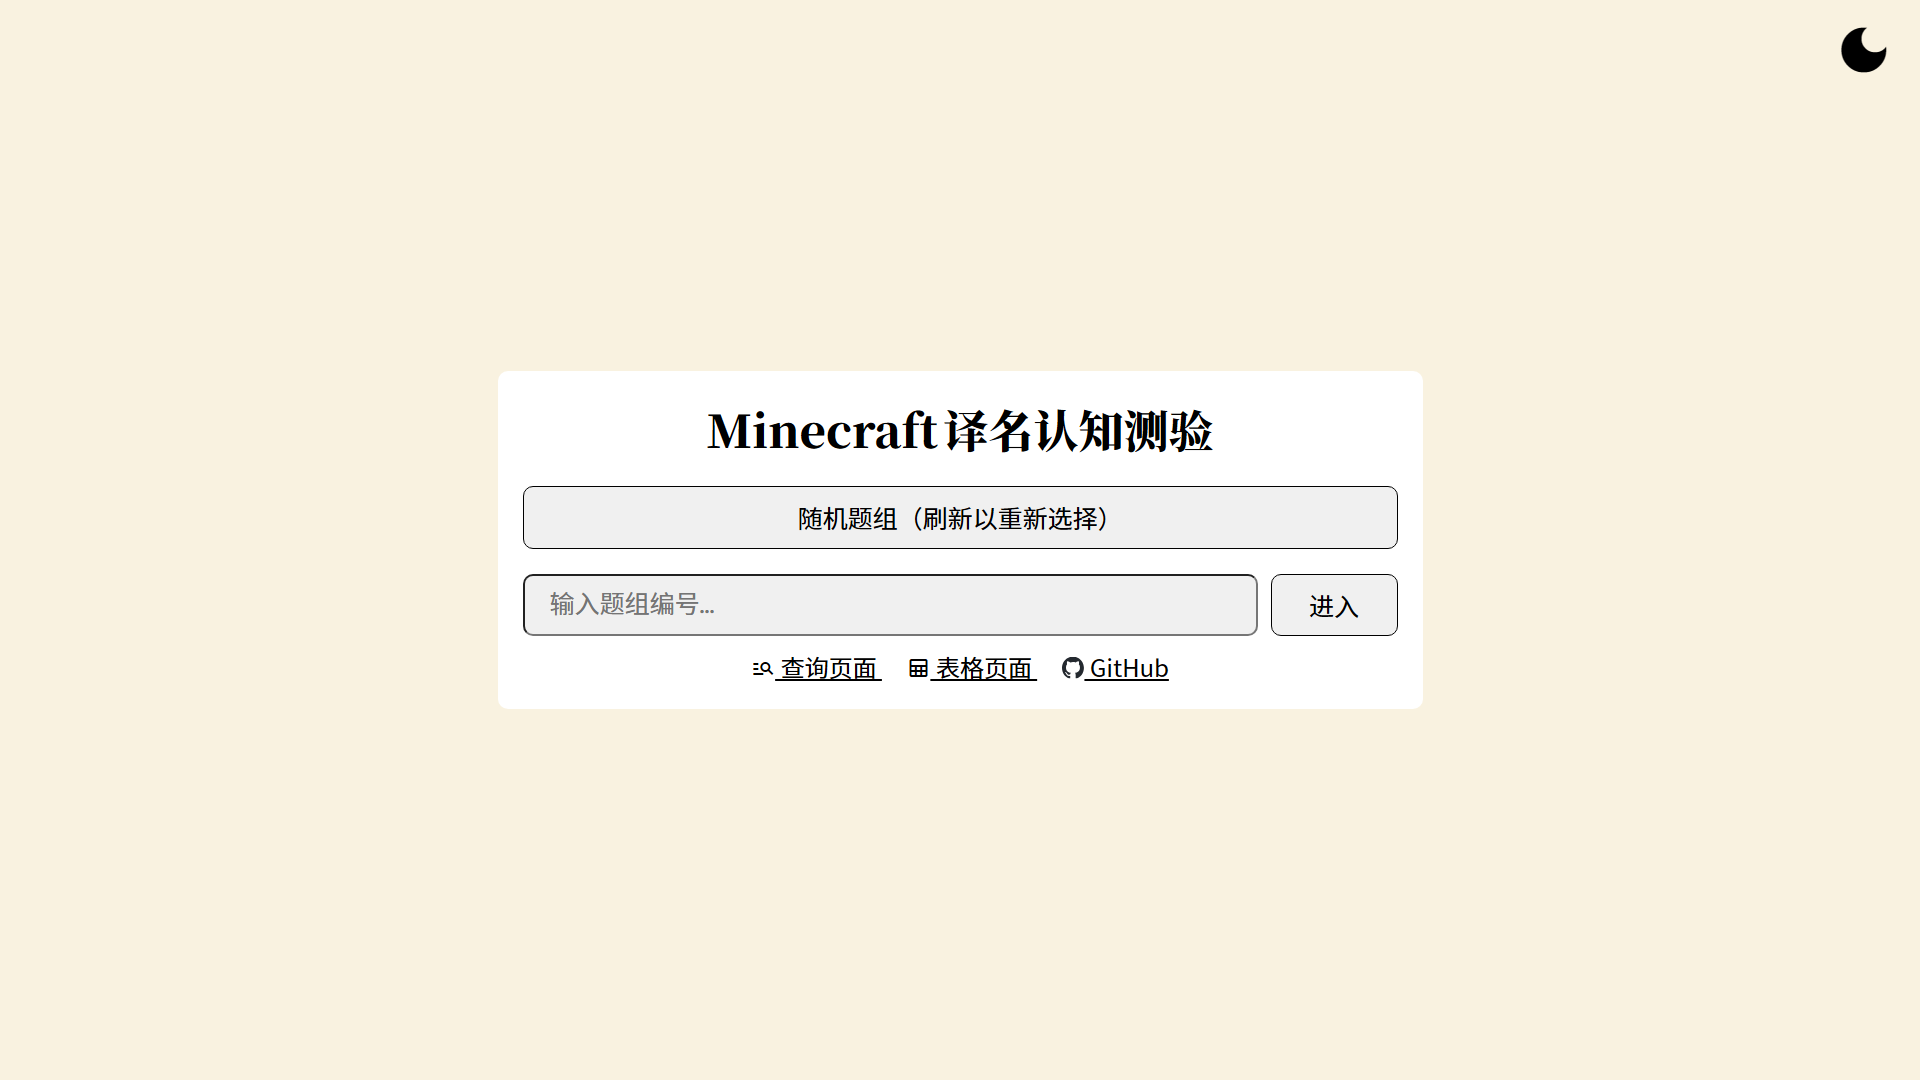
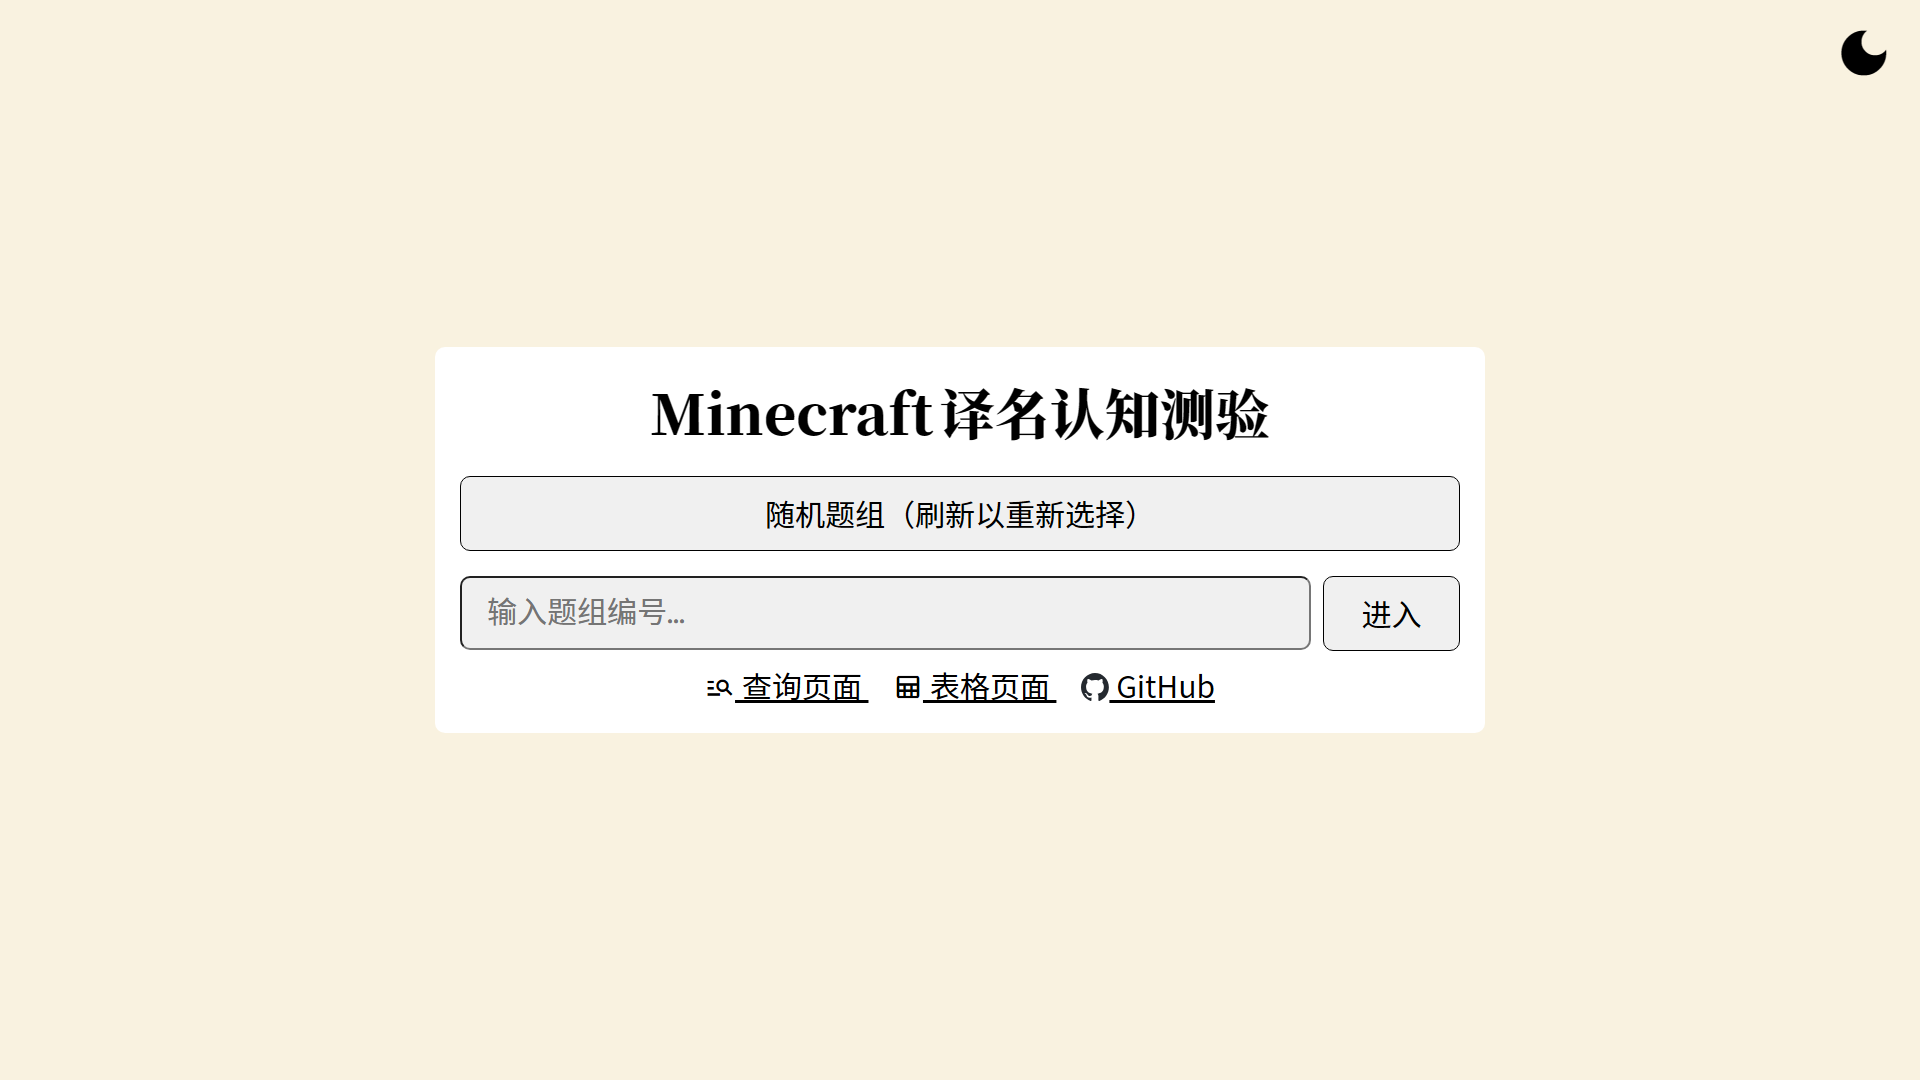
Update

Changed region(s): [[0.2188, 0.3056, 0.7812, 0.7028]]

diff --git a/static/css/quiz_portal.css b/static/css/quiz_portal.css
@@ -1,4 +1,4 @@
-@import url("https://fonts.font.im/css2?family=Fira+Code&family=Noto+Serif+SC:wght@900&display=swap");
+@import url("https://fonts.font.im/css2?family=Fira+Code&family=Noto+Serif:wght@100..900&family=Noto+Serif+SC:wght@900&family=Noto+Serif+TC:wght@900&display=swap");
 
 body {
     display: flex;
@@ -17,12 +17,12 @@ body {
     text-align: center;
     background-color: #fff;
     padding: 20px;
-    width: 700px;
+    width: 800px;
     border-radius: 8px;
 }
 
 a {
-    font-size: larger;
+    font-size: x-large;
 }
 
 .github-icon {
@@ -54,8 +54,8 @@ a {
 input[type="text"] {
     font-family: "Fira Code", "Source Code Pro", Consolas, Monaco, monospace;
     flex: 1;
-    padding: 10px 20px;
-    font-size: 20px;
+    padding: 0.5em 20px;
+    font-size: x-large;
     border-radius: 8px;
 }
 
@@ -63,7 +63,7 @@ button {
     min-height: 2.5em;
     background-color: #f0f0f0;
     cursor: pointer;
-    font-size: 20px;
+    font-size: x-large;
     border: solid 1px;
     border-radius: 8px;
 }
@@ -72,31 +72,49 @@ button {
     width: 100%;
     box-sizing: border-box;
     margin: 20px 0;
-    padding: 9px;
+    padding: 0.4em;
 }
 
 .btn-2 {
     margin-left: 10px;
-    padding: 9px 30px;
+    padding: 0.4em 30px;
 }
 
 .title {
-    font-family: "Noto Serif SC", "Source Han Serif SC", "Source Han Serif CN",
-        "思源宋体", "Times New Roman", SimSun, Times, serif;
-    font-size: 2.25em;
     font-weight: 900;
     text-align: center;
 }
 
+.title[lang="en"] {
+    font-size: 2.25em;
+    font-family: "Noto Serif", "Times New Roman", SimSun, Times, serif;
+}
+
+.title[lang="zh_CN"] {
+    font-size: 2.75em;
+    font-family: "Noto Serif SC", "Source Han Serif SC", "Source Han Serif CN",
+        "思源宋体", "Times New Roman", SimSun, Times, serif;
+}
+
+.title[lang="zh_TW"] {
+    font-size: 2.75em;
+    font-family: "Noto Serif TC", "Source Han Serif TC", "Source Han Serif TW",
+        "思源宋體", "Times New Roman", SimSun, Times, serif;
+}
+
 /* 响应式设计 */
 @media (orientation: portrait) and (max-width: 760px) {
-    .container {
+    a {
+        font-size: larger;
+    }
+
+    .container-1 {
         width: 95%;
         padding: 30px 0;
     }
 
     .title {
-        font-size: 1.5em;
+        font-size: 1.5em !important;
     }
 
     .btn-1,

diff --git a/templates/quiz_portal.html b/templates/quiz_portal.html
@@ -1,5 +1,5 @@
 <!DOCTYPE html>
-<html lang="en">
+<html lang="{{ locale }}">
 
 <head>
     <meta charset="UTF-8">
@@ -27,7 +27,7 @@
         </button>
     </div>
     <div class="container-1">
-        <div class="title">{{ _("Minecraft Standard Translation Quiz") }}</div>
+        <div class="title" lang="{{ locale }}">{{ _("Minecraft Standard Translation Quiz") }}</div>
         <button class="btn-1" onclick="window.location.href='quiz/{{ random_code }}'">
             {{ _("Random questions (refresh to reselect)") }}
         </button>

diff --git a/app.py b/app.py
@@ -195,7 +195,7 @@ def quiz_portal() -> str:
     p1 = _l("Enter question group code...")
 
     return render_template(
-        "quiz_portal.html", placeholder=p1, random_code=get_questions()
+        "quiz_portal.html", placeholder=p1, locale=session["locale"], random_code=get_questions()
     )
 
 
